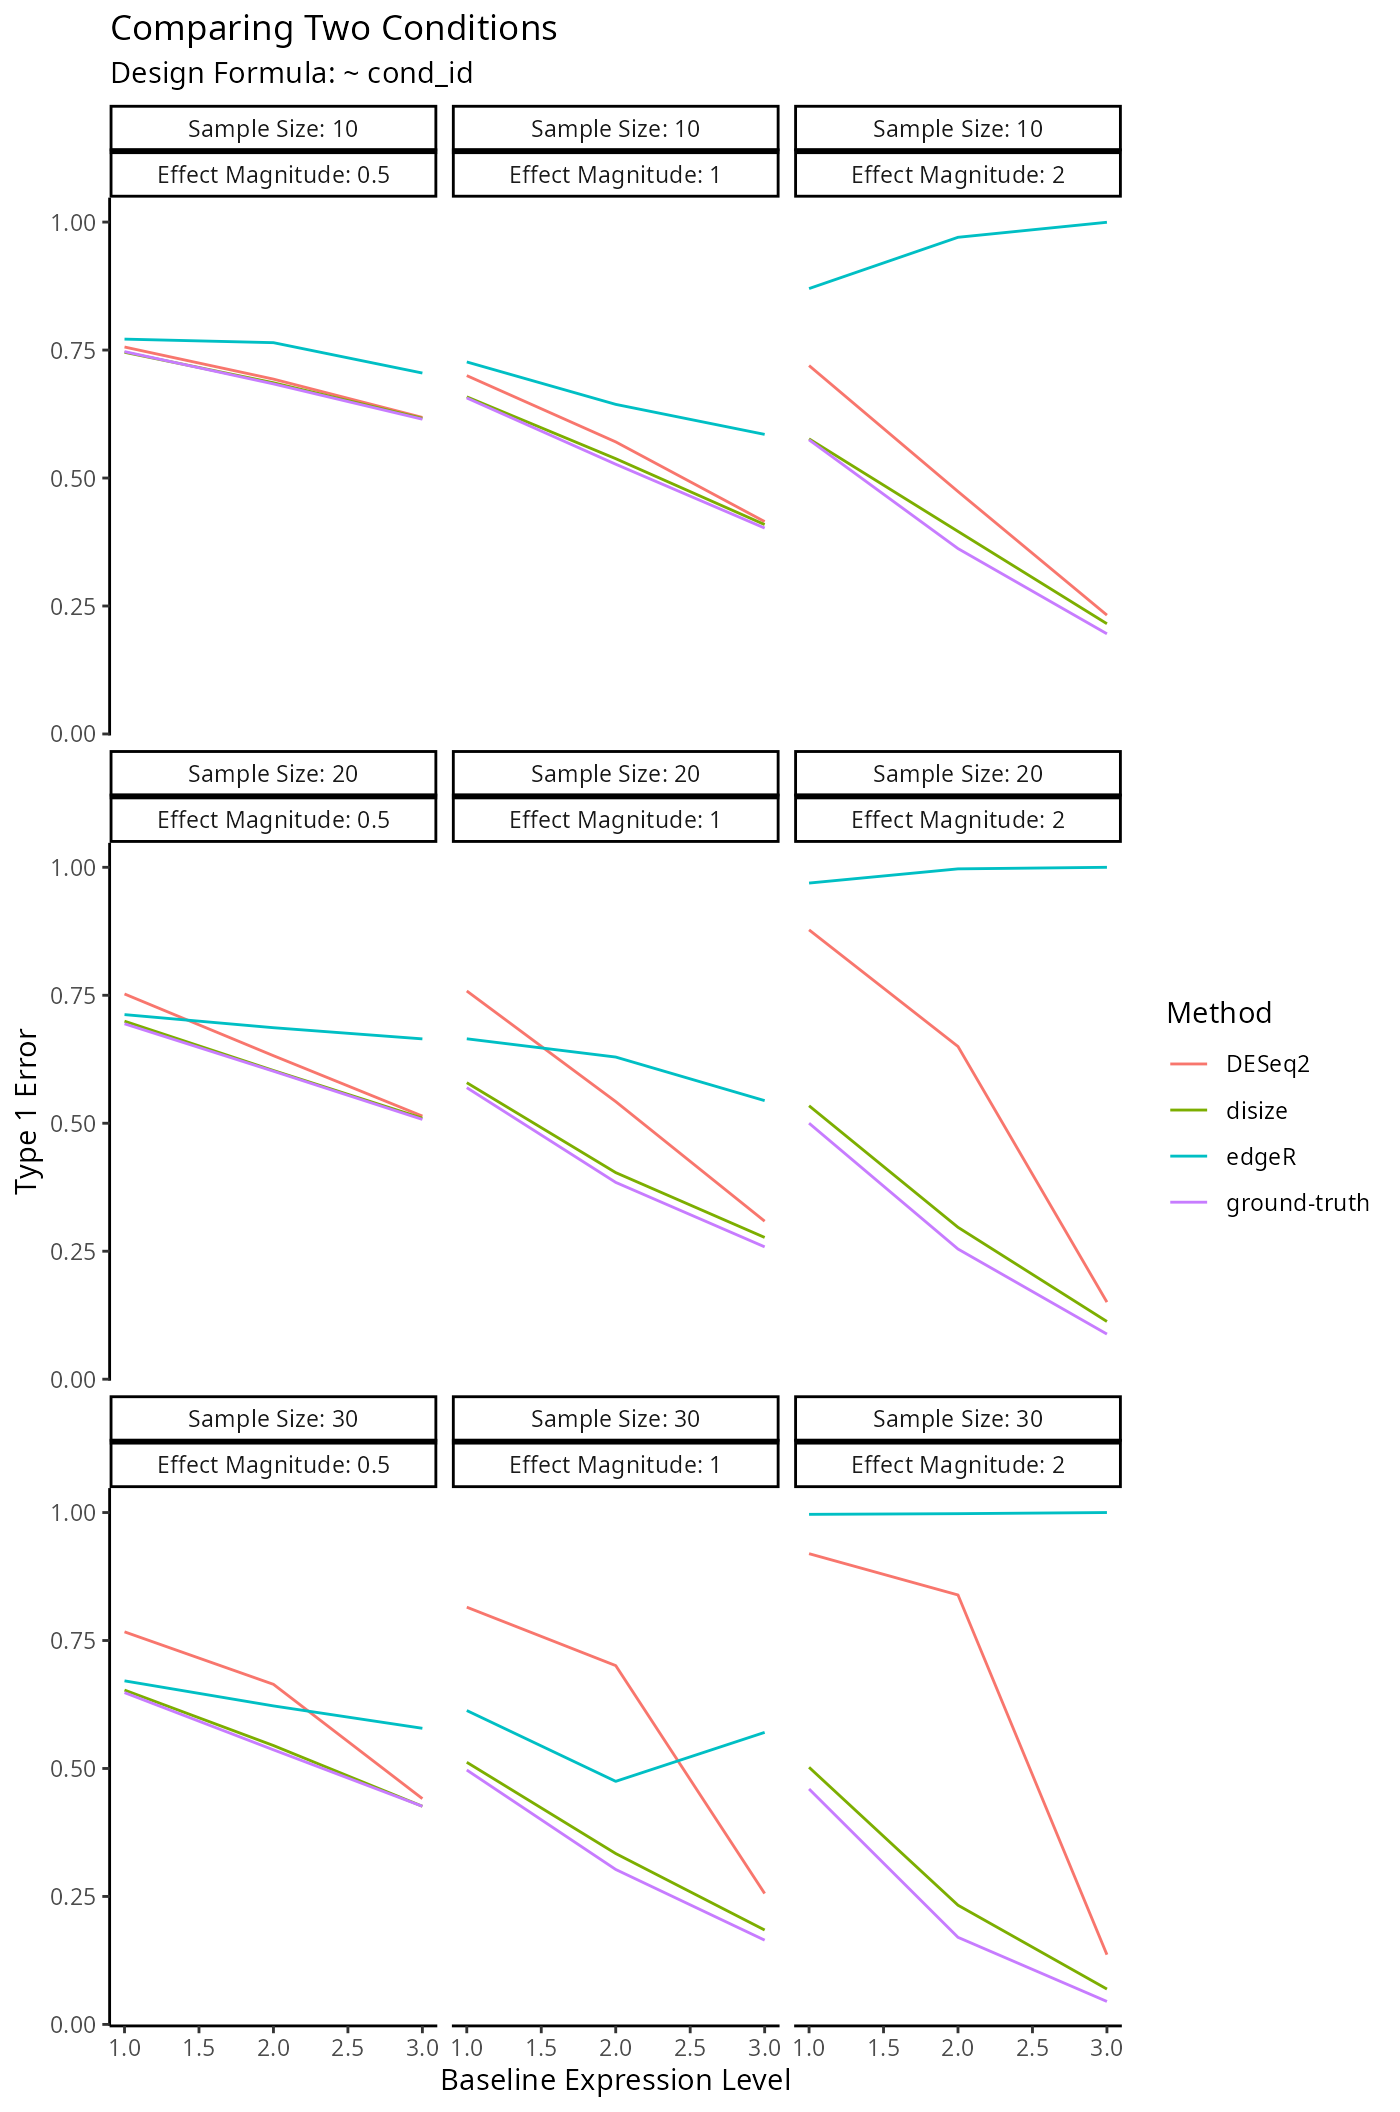
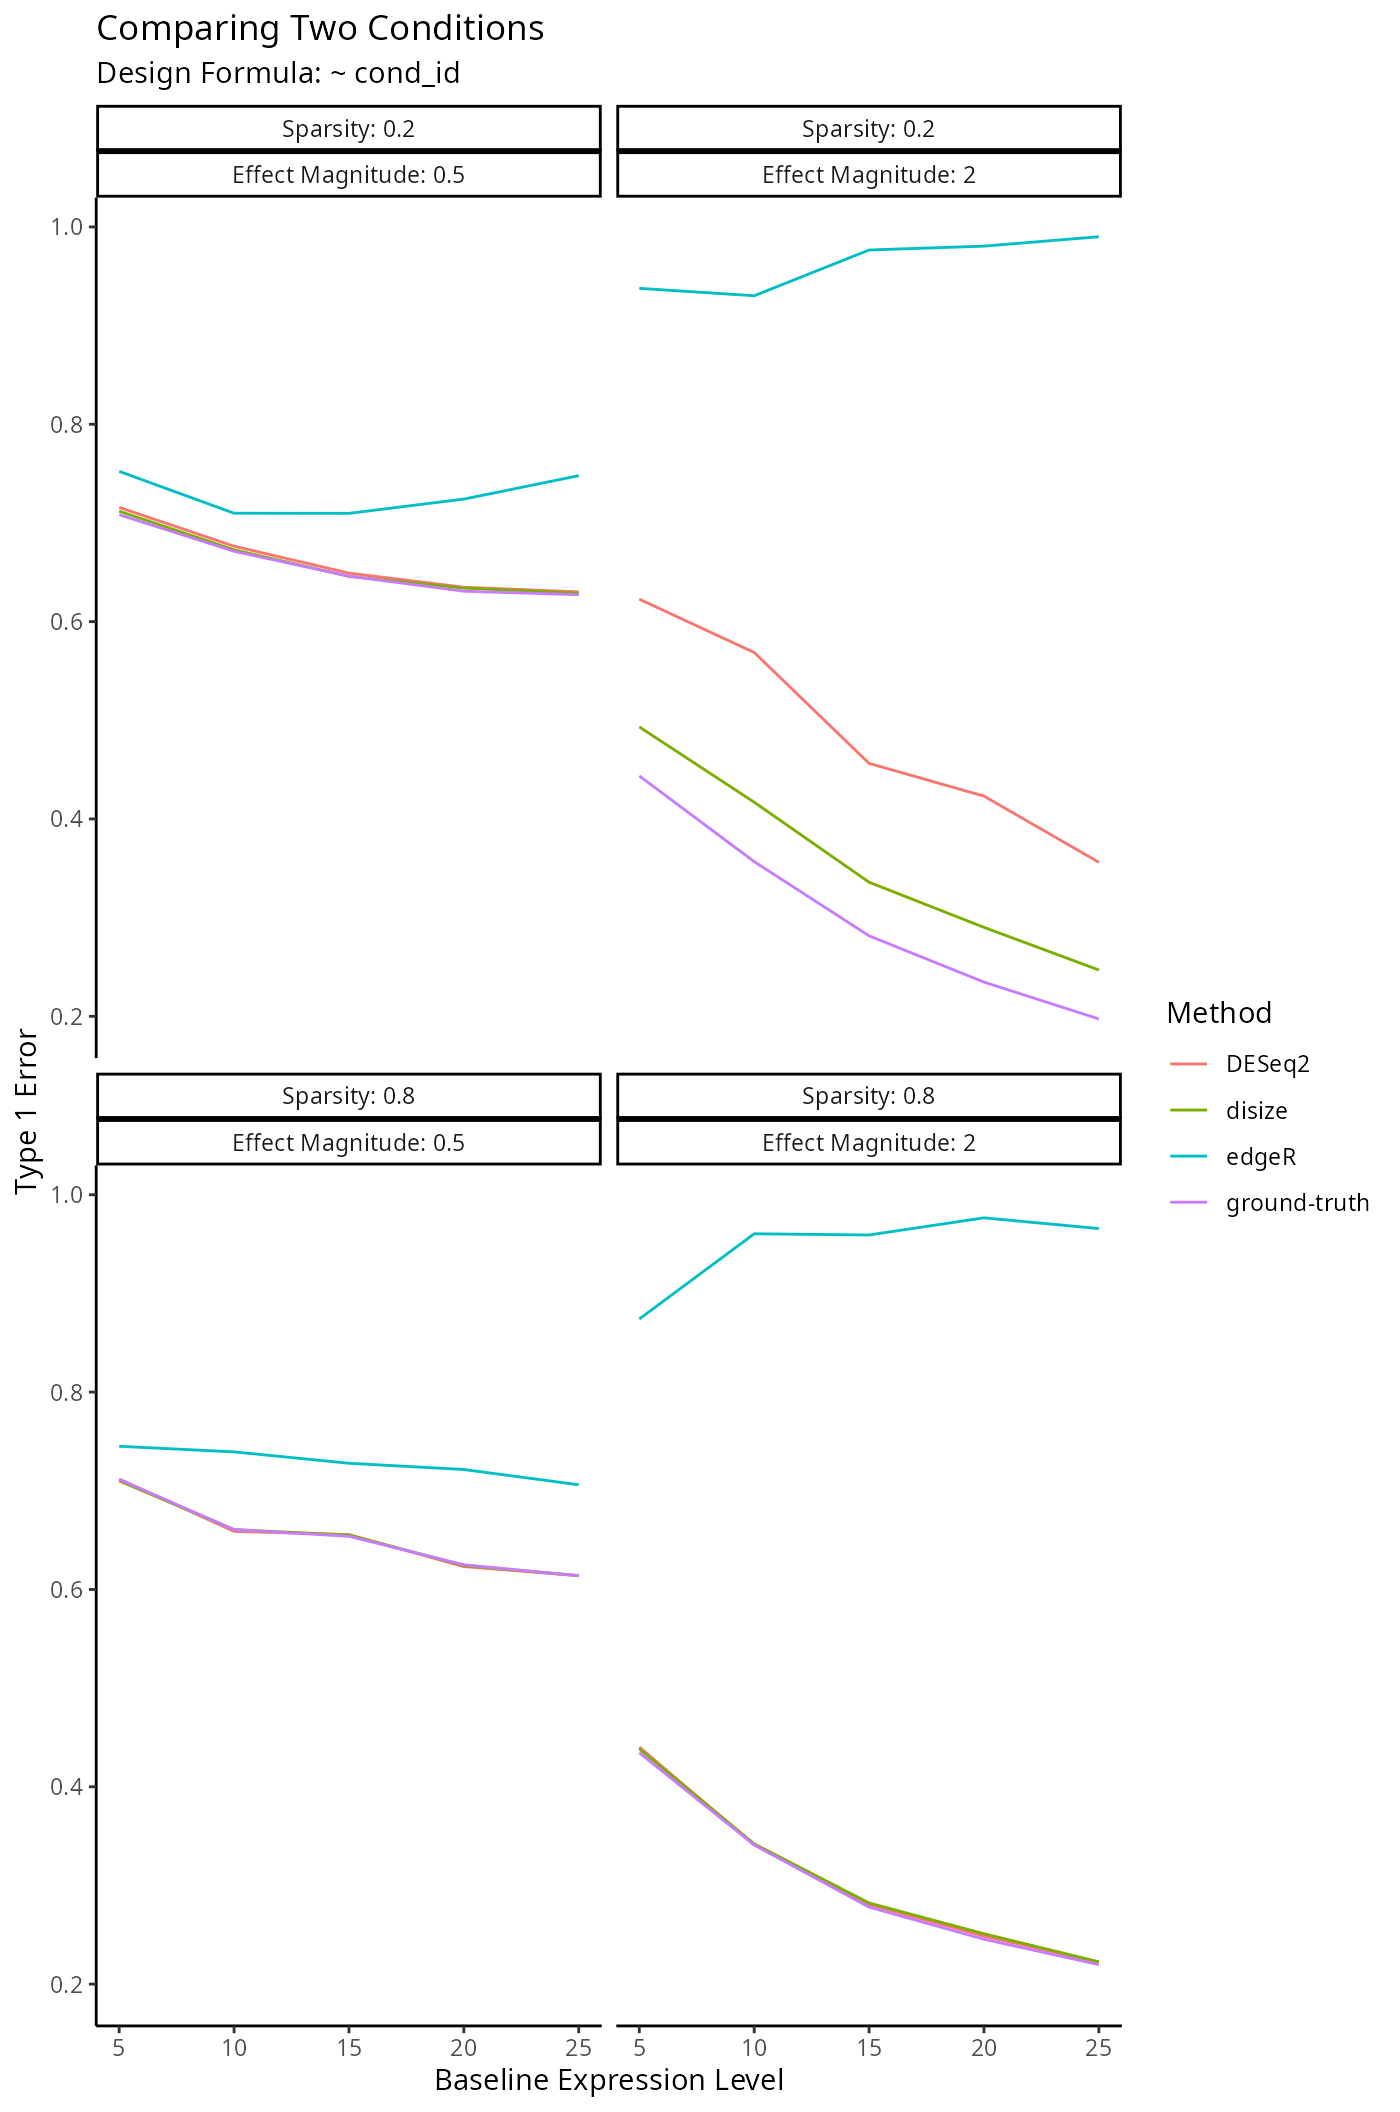
Built site for disize@0.5.0:

diff --git a/articles/comparing-defs.html b/articles/comparing-defs.html
@@ -173,8 +173,8 @@ for both batch definitions:</p>
 <span><span class="op">)</span></span>
 <span><span class="co">#&gt; Formatting data...</span></span>
 <span><span class="co">#&gt; Optimizing over initialization...</span></span>
-<span><span class="co">#&gt; Estimating size factors... (Max ETA: ~13.6s)</span></span>
-<span><span class="co">#&gt; Finised in 9s!</span></span>
+<span><span class="co">#&gt; Estimating size factors... (Max ETA: ~12.7s)</span></span>
+<span><span class="co">#&gt; Finised in 8.6s!</span></span>
 <span></span>
 <span><span class="va">size_factors_2</span> <span class="op">&lt;-</span> <span class="fu">disize</span><span class="fu">::</span><span class="fu"><a href="../reference/disize.html">disize</a></span><span class="op">(</span></span>
 <span>    <span class="va">design_formula</span>,</span>
@@ -186,8 +186,8 @@ for both batch definitions:</p>
 <span><span class="op">)</span></span>
 <span><span class="co">#&gt; Formatting data...</span></span>
 <span><span class="co">#&gt; Optimizing over initialization...</span></span>
-<span><span class="co">#&gt; Estimating size factors... (Max ETA: ~12.5s)</span></span>
-<span><span class="co">#&gt; Finised in 10.2s!</span></span></code></pre></div>
+<span><span class="co">#&gt; Estimating size factors... (Max ETA: ~12.9s)</span></span>
+<span><span class="co">#&gt; Finised in 10.8s!</span></span></code></pre></div>
 </div>
 <div class="section level2">
 <h2 id="comparing-definitions">Comparing definitions<a class="anchor" aria-label="anchor" href="#comparing-definitions"></a>

diff --git a/articles/disize.html b/articles/disize.html
@@ -202,7 +202,7 @@ factors:</p>
 <span><span class="op">)</span></span>
 <span><span class="co">#&gt; Formatting data...</span></span>
 <span><span class="co">#&gt; Optimizing over initialization...</span></span>
-<span><span class="co">#&gt; Estimating size factors... (Max ETA: ~28.1s)</span></span>
+<span><span class="co">#&gt; Estimating size factors... (Max ETA: ~28.2s)</span></span>
 <span><span class="co">#&gt; Finised in 8.4s!</span></span>
 <span><span class="fu"><a href="https://rdrr.io/r/base/print.html" class="external-link">print</a></span><span class="op">(</span><span class="va">size_factors_1</span><span class="op">)</span></span>
 <span><span class="co">#&gt;        Ctrl1        Ctrl2        Ctrl3         LPS1         LPS2         LPS3 </span></span>
@@ -226,7 +226,7 @@ a larger <code>n_feats</code>:</p>
 <span><span class="op">)</span></span>
 <span><span class="co">#&gt; Formatting data...</span></span>
 <span><span class="co">#&gt; Optimizing over initialization...</span></span>
-<span><span class="co">#&gt; Estimating size factors... (Max ETA: ~43.6s)</span></span>
+<span><span class="co">#&gt; Estimating size factors... (Max ETA: ~43.2s)</span></span>
 <span><span class="co">#&gt; Finised in 19.8s!</span></span>
 <span><span class="fu"><a href="https://rdrr.io/r/base/print.html" class="external-link">print</a></span><span class="op">(</span><span class="va">size_factors_2</span><span class="op">)</span></span>
 <span><span class="co">#&gt;        Ctrl1        Ctrl2        Ctrl3         LPS1         LPS2         LPS3 </span></span>